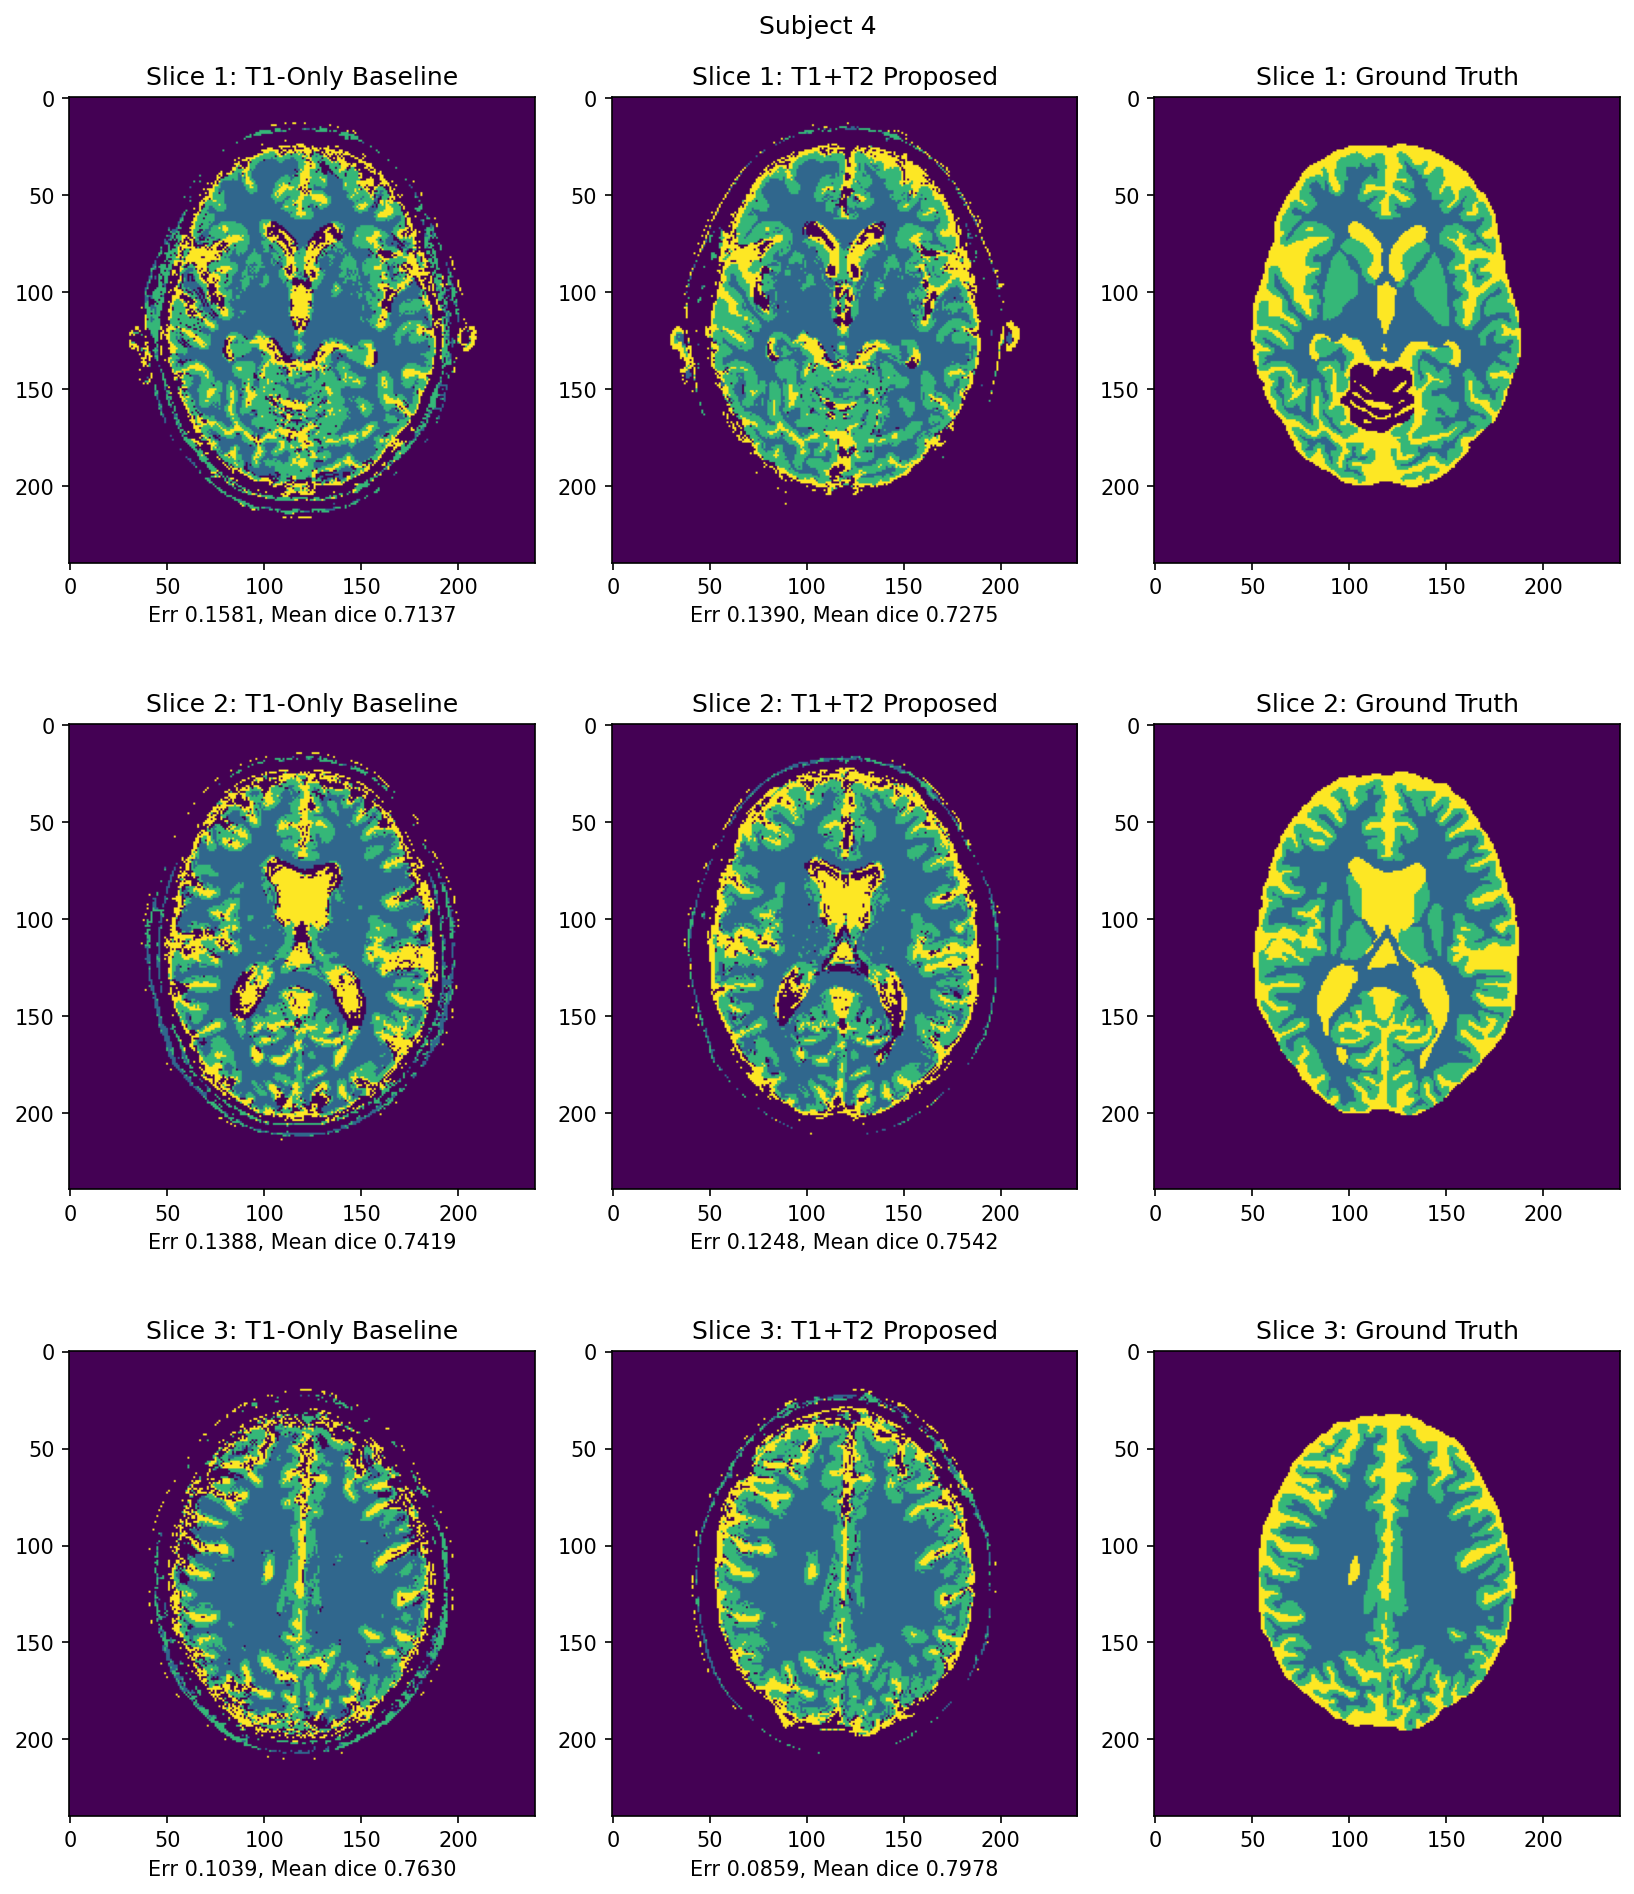
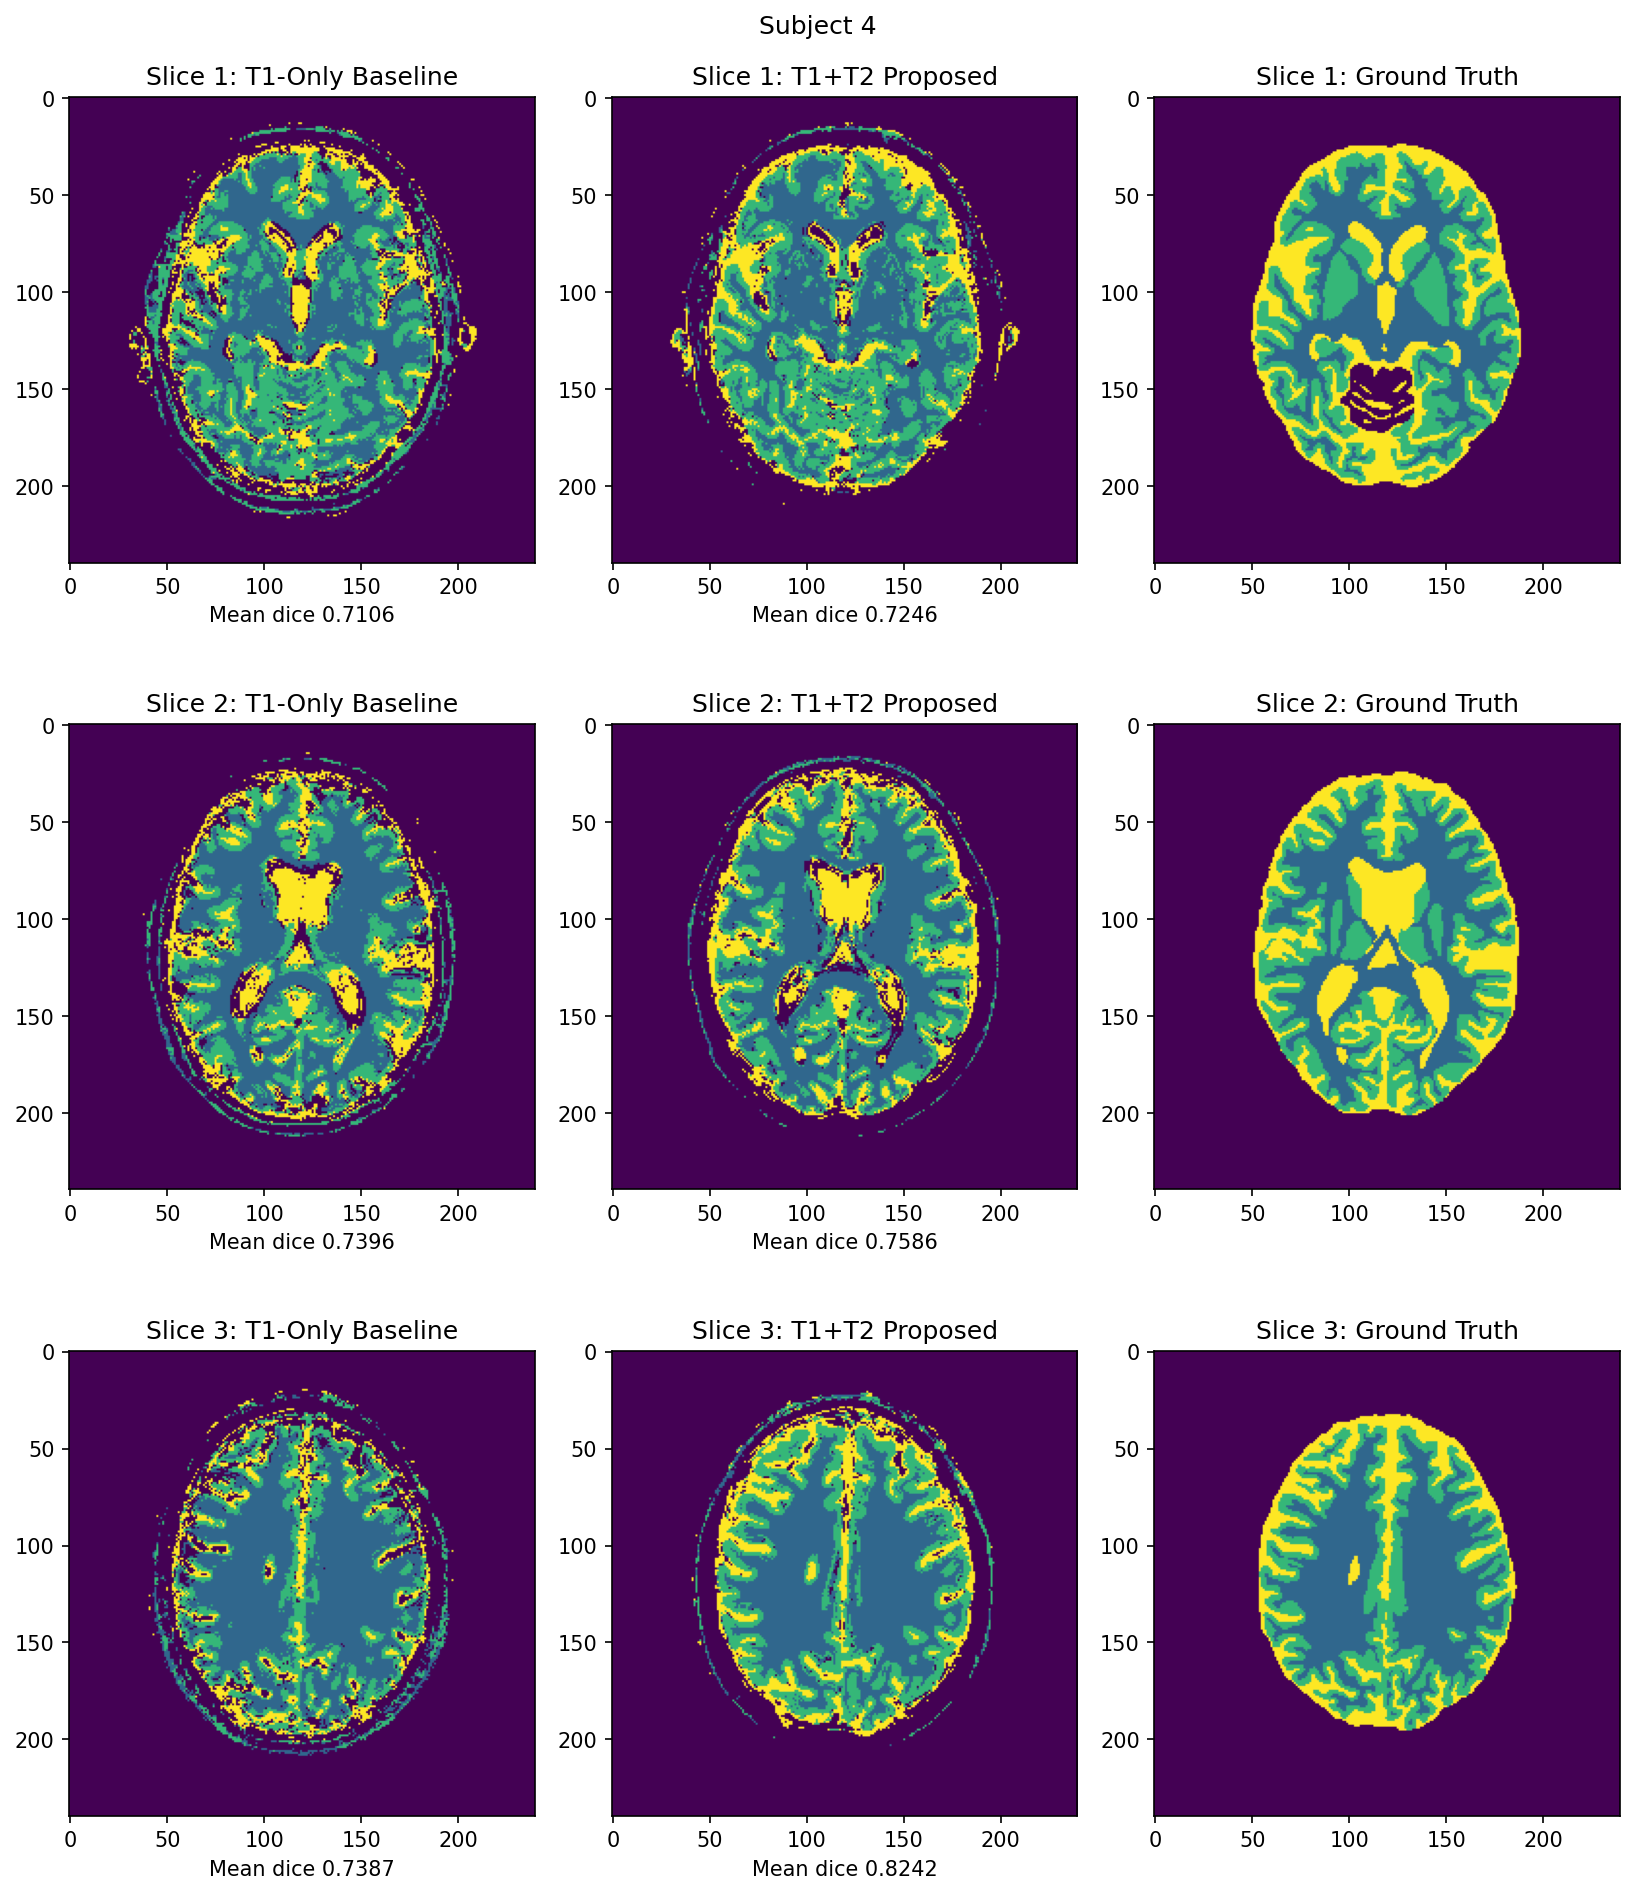
Dice overlap weer toegevoegd, average confusion matrix berekend en geprint, error rate verwijderd

diff --git a/Segmentation/code/segmentation_project.py b/Segmentation/code/segmentation_project.py
@@ -43,6 +43,10 @@ def segmentation_demo():
     all_data_t1t2 = []
     all_labels = []
 
+    average_confusion_matrix_t1 = np.zeros((4,4)) #because we have 4 classes (background, CSF, GM, WM)
+    average_confusion_matrix_t1t2 = np.zeros((4,4)) #because we have 4 classes (background, CSF, GM, WM)
+    count = 0
+
     print(f'Loading data for {num_subjects} subjects with {len(train_slices)} slices...')
     for i in all_subjects:
         sub = i + 1
@@ -71,20 +75,15 @@ def segmentation_demo():
     all_subjects = np.arange(num_subjects)
     all_indices = np.arange(num_subjects * len(train_slices))
 
-    dice_score_list = []
-
     # Leave-One-Slice-Out Cross-Validation
     for i in all_subjects:
         sub = i + 1
 
         fig = plt.figure(figsize=(11, 13))
         fig.suptitle(f"Subject {sub}")
-        classes = ['background', 'White Matter', 'Grey Matter', 'CSF']
 
         for j in range(len(train_slices)):
-
-            dice_score_mini_list = []
-
+            count += 1
             slice = j + 1   # For naming the right slice in plots
 
             slice_index = len(train_slices) * i + j     # Current test slice (excluded from training data)
@@ -106,9 +105,9 @@ def segmentation_demo():
             predicted_labels_t1 = segmentation_mymethod(train_data_t1, train_labels, test_data_t1, task)
 
             # Validate prediction
-            err_t1 = util.classification_error(test_labels, predicted_labels_t1)
             dice_t1 = util.dice_multiclass(test_labels, predicted_labels_t1)
             conf_matrix_t1 = util.confusion_matrix(test_labels, predicted_labels_t1)
+            average_confusion_matrix_t1 += conf_matrix_t1
             print(f"Confusion Matrix for T1-only:\n{conf_matrix_t1}")
 
             #----------------- T1 + T2 ------------------------------------------
@@ -117,13 +116,10 @@ def segmentation_demo():
             predicted_labels_t1t2 = segmentation_mymethod(train_data_t1t2, train_labels, test_data_t1t2, task)
 
             # Validate prediction
-            err_t1t2 = util.classification_error(test_labels, predicted_labels_t1t2)
             dice_t1t2 = util.dice_multiclass(test_labels, predicted_labels_t1t2)
             conf_matrix_t1t2 = util.confusion_matrix(test_labels, predicted_labels_t1t2)
+            average_confusion_matrix_t1t2 += conf_matrix_t1t2
             print(f"Confusion Matrix for T1+T2:\n{conf_matrix_t1t2}")
-
-            dice_score_mini_list.append(float(dice_t1))
-            dice_score_mini_list.append(float(dice_t1t2))
 
             # -------------- Visualization --------------------------------
             # Plot resulting predictions and validations per slice
@@ -131,27 +127,26 @@ def segmentation_demo():
             ax1 = fig.add_subplot(3,3,(1+3*j))
             ax1.imshow(predicted_labels_t1.reshape(im_size[0], im_size[1]), 'viridis')
             ax1.set_title(f'Slice {slice}: T1-Only Baseline')
-            ax1.set_xlabel(f'Err {err_t1:.4f}, Mean dice {dice_t1:.4f}')
+            ax1.set_xlabel(f'Mean dice {dice_t1:.4f}')
 
             # T1 + T2 features
             ax2 = fig.add_subplot(3,3,(2+3*j))
             ax2.imshow(predicted_labels_t1t2.reshape(im_size[0], im_size[1]), 'viridis')
             ax2.set_title(f'Slice {slice}: T1+T2 Proposed')
-            ax2.set_xlabel(f'Err {err_t1t2:.4f}, Mean dice {dice_t1t2:.4f}')
+            ax2.set_xlabel(f'Mean dice {dice_t1t2:.4f}')
 
             # Ground Truth
             ax3 = fig.add_subplot(3,3,(3+3*j))
             ax3.imshow(test_labels.reshape(im_size[0], im_size[1]), 'viridis')
             ax3.set_title(f'Slice {slice}: Ground Truth')
 
-            dice_score_list.append(dice_score_mini_list)
-
         # Save plot per Subject before displaying it
         fig.tight_layout(rect=[0, 0, 1, 1])
         fig.savefig(f"Test_{sub}.png", dpi=150, bbox_inches='tight')
-        fig.legend(classes)
         plt.show()
 
-    print("All dice scores:", dice_score_list)
-    for i in dice_score_list:
-        print(i[0], i[1])
+    average_confusion_matrix_t1 = np.round(average_confusion_matrix_t1 / count).astype(int) #average confusion matrix across all subjects and slices for T1-only
+    average_confusion_matrix_t1t2 = np.round(average_confusion_matrix_t1t2 / count).astype(int) #average confusion matrix across all subjects and slices for T1+T2
+
+    print(f"\nAverage Confusion Matrix with T1-only:\n{average_confusion_matrix_t1}")
+    print(f"Average Confusion Matrix with T1+T2:\n{average_confusion_matrix_t1t2}\n")

diff --git a/Segmentation/code/segmentation_util.py b/Segmentation/code/segmentation_util.py
@@ -226,6 +226,25 @@ def create_labels(image_number, slice_number, task):
 
     return Y
 
+def dice_overlap(true_labels, predicted_labels, smooth=1.):
+    # returns the Dice coefficient for two binary label vectors
+    # Input:
+    # true_labels         Nx1 binary vector with the true labels
+    # predicted_labels    Nx1 binary vector with the predicted labels
+    # smooth              smoothing factor that prevents division by zero
+    # Output:
+    # dice          Dice coefficient
+
+    assert true_labels.shape[0] == predicted_labels.shape[0], "Number of labels do not match"
+
+    t = true_labels.flatten()
+    p = predicted_labels.flatten()
+
+    intersection = np.sum(t * p)
+    dice = (2. * intersection + smooth) / (np.sum(t) + np.sum(p) + smooth)
+    
+    return dice
+
 def dice_multiclass(true_labels, predicted_labels):
     #dice_multiclass.m returns the Dice coefficient for two label vectors with
     #multiple classses
